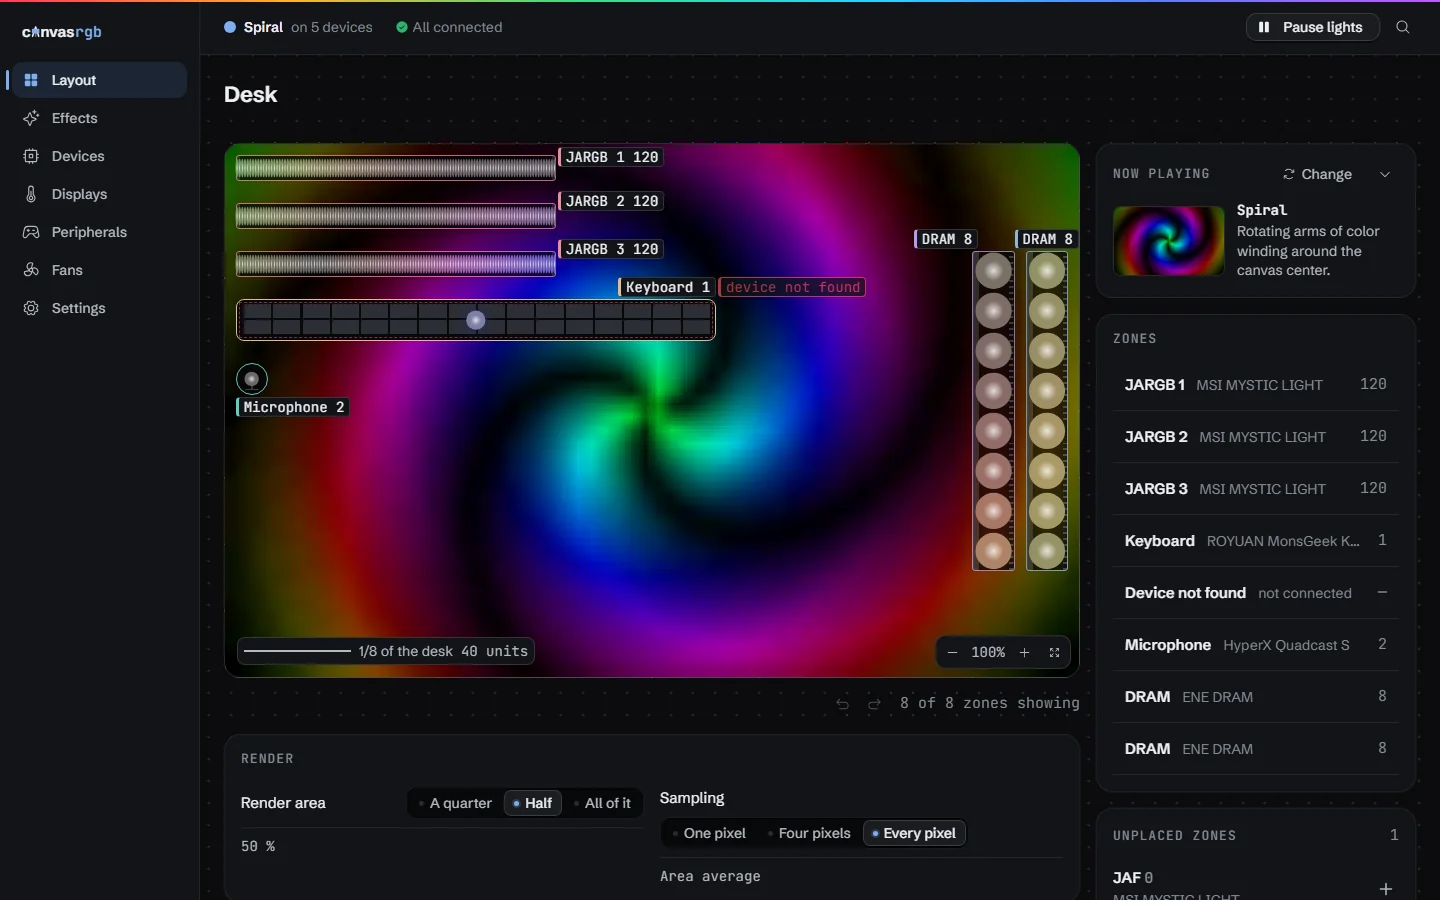
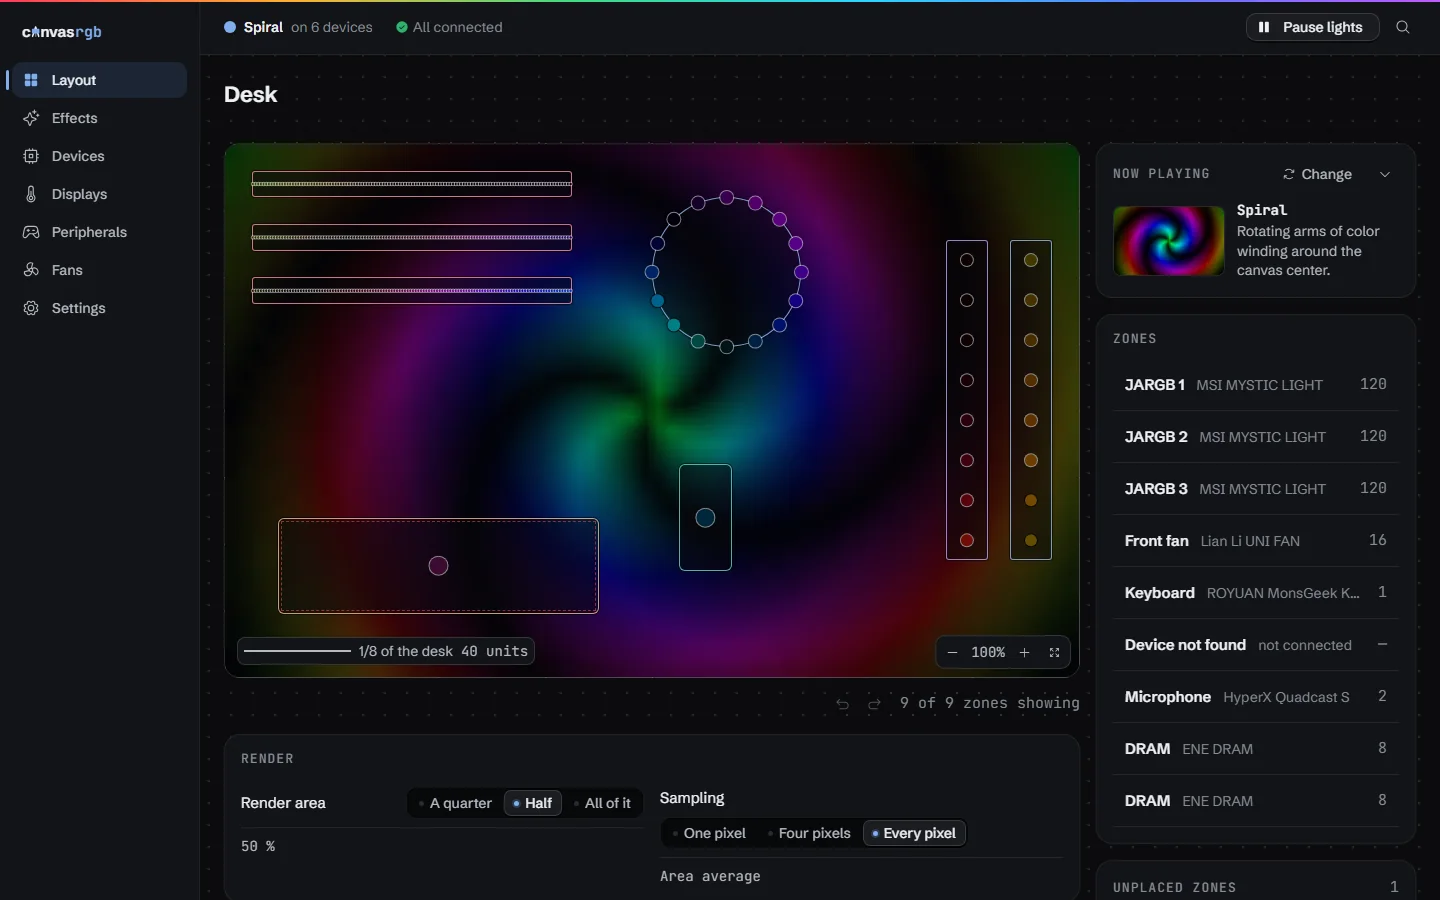
Site: the hero wordmark animates in

diff --git a/site/src/components/HeroWordmark.tsx b/site/src/components/HeroWordmark.tsx
@@ -40,6 +40,8 @@ export function HeroWordmark() {
     // before it reaches an edge, so no edge of the canvas can ever show. One scale for both
     // axes, so the light stays round.
     const SCALE = 0.45;
+    // How long the spectrum in the easel's canvas takes to sweep across, once, on load.
+    const SWEEP = 0.62;
     const reduced = window.matchMedia("(prefers-reduced-motion: reduce)");
     const root = getComputedStyle(document.documentElement);
     const colours = SPECTRUM.map((n) => root.getPropertyValue(n).trim() || "#ff3b5c");
@@ -161,18 +163,30 @@ export function HeroWordmark() {
     };
 
     /** The spectrum inside the easel's canvas: a small crisp band under the pointer. */
-    const drawPane = (t: number) => {
+    const drawPane = (t: number, sweepOn: boolean) => {
       const w = pane.width;
       const h = pane.height;
       if (w < 2 || h < 2) return;
       paneCtx.clearRect(0, 0, w, h);
       const host = wrap.getBoundingClientRect();
-      const nx = seen
-        ? (target.x + hero.getBoundingClientRect().left - host.left) / Math.max(1, host.width)
+      const heroBox = hero.getBoundingClientRect();
+      let nx = seen
+        ? (target.x + heroBox.left - host.left) / Math.max(1, host.width)
         : 0.5 + Math.sin(t * 0.28) * 0.1;
       const ny = seen
-        ? (target.y + hero.getBoundingClientRect().top - host.top) / Math.max(1, host.height)
+        ? (target.y + heroBox.top - host.top) / Math.max(1, host.height)
         : 0.5;
+      let hueShift = (nx - 0.5) * 24;
+      if (sweepOn) {
+        // On load the spectrum sweeps once across the canvas, and then hands over to the
+        // pointer. It is the same band, only moved.
+        const s = Math.min(1, t / SWEEP);
+        const ease = s * s * (3 - 2 * s);
+        const sweepX = -0.7 + 1.4 * s;
+        const sweepHue = -26 + 52 * s;
+        nx = sweepX + (nx - sweepX) * ease;
+        hueShift = sweepHue + (hueShift - sweepHue) * ease;
+      }
       // The band tilts with the pointer and slides under it.
       const ang = (ny - 0.5) * 0.3;
       const cx = w / 2 + (nx - 0.5) * w * 0.5;
@@ -187,16 +201,23 @@ export function HeroWordmark() {
         g.addColorStop(i / (colours.length - 1), colours[i] ?? "#ff3b5c");
       }
       // A little hue from the pointer, and no more.
-      paneCtx.filter = `hue-rotate(${((nx - 0.5) * 24).toFixed(1)}deg)`;
+      paneCtx.filter = `hue-rotate(${hueShift.toFixed(1)}deg)`;
       paneCtx.fillStyle = g;
       paneCtx.fillRect(0, 0, w, h);
       paneCtx.filter = "none";
     };
 
     let raf = 0;
+    // The entrance is timed from the first paint, so the sweep in the easel's canvas starts
+    // with the words settling in and not when the script happens to run.
+    const paint = performance
+      .getEntriesByType("paint")
+      .find((e) => e.name === "first-contentful-paint");
+    const t0 = paint ? paint.startTime : 0;
     const frame = (now: number) => {
-      drawField(now / 1000);
-      drawPane(now / 1000);
+      const t = (now - t0) / 1000;
+      drawField(t);
+      drawPane(t, true);
       raf = requestAnimationFrame(frame);
     };
     const still = () => {
@@ -204,7 +225,8 @@ export function HeroWordmark() {
       pos.x = markX;
       pos.y = markY;
       drawField(0);
-      drawPane(0);
+      // No sweep when the motion is off: the canvas is there, and it does not move.
+      drawPane(0, false);
     };
     const start = () => {
       if (raf) return;

diff --git a/site/src/app/site.css b/site/src/app/site.css
@@ -52,6 +52,68 @@
   text-wrap: pretty;
 }
 
+/* ---------- the hero's entrance ---------- */
+
+/* One movement, used for every part of the hero: a short rise and a fade. It is a
+   transform and an opacity, so nothing moves in the layout and nothing reflows. */
+@keyframes site-rise {
+  from {
+    opacity: 0;
+    transform: translate3d(0, 10px, 0);
+  }
+
+  to {
+    opacity: 1;
+    transform: none;
+  }
+}
+
+@keyframes site-fade {
+  from {
+    opacity: 0;
+  }
+
+  to {
+    opacity: 1;
+  }
+}
+
+/* The order: the mark, then the light, then the words, then the buttons. The whole
+   entrance is done in about 700 ms and then the page is still. Under reduced motion every
+   duration and delay is set to zero by the editor's own rule, so all of it shows at once. */
+.site-hero-wordmark,
+.site-h1,
+.site-lead,
+.site-hero-actions,
+.site-hero-note {
+  animation: site-rise var(--dur-slow) var(--ease) both;
+}
+
+.site-hero-wordmark {
+  animation-delay: 0ms;
+}
+
+.site-hero-field {
+  animation: site-fade var(--dur-slow) var(--ease) both;
+  animation-delay: 80ms;
+}
+
+.site-h1 {
+  animation-delay: 190ms;
+}
+
+.site-lead {
+  animation-delay: 270ms;
+}
+
+.site-hero-actions {
+  animation-delay: 350ms;
+}
+
+.site-hero-note {
+  animation-delay: 430ms;
+}
+
 /* ---------- the header ---------- */
 
 .site-header {
